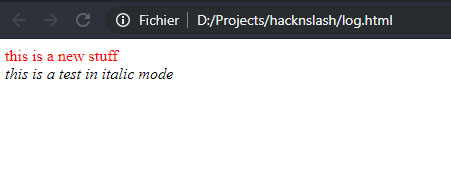
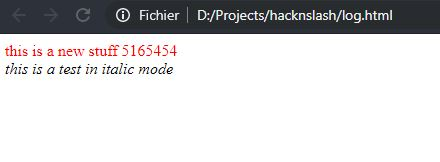
Update the documentation of the logging module with a functional example using long type

Changed region(s): [[0.0, 0.0309, 1.0, 0.2469], [0.0, 0.2778, 0.4136, 0.4938], [0.1477, 0.0309, 0.2068, 0.1543]]

diff --git a/doc/modules/logging/logging.md b/doc/modules/logging/logging.md
@@ -91,7 +91,7 @@ _You always should call this function when you opened up a file before._
 or by including the associated data_logging.c file:
 ```c
     logging.open(data_logging.file, "log.html");
-    logging.write(data_logging.file, "red", "%s %l", "this is a new stuff", 5165454);
+    logging.write(data_logging.file, "red", "%s %ld", "this is a new stuff", 5165454);
     logging.close(data_logging.file);
 ```
 
@@ -109,7 +109,7 @@ or by including the associated data_logging.c file:
         logging.flush(data_logging.file_name);
         logging.open(data_logging.file, data_logging.file_name);
         
-        logging.write(data_logging.file, "red", "%s %l", "this is a new stuff", 5165454);
+        logging.write(data_logging.file, "red", "%s %ld", "this is a new stuff", 5165454);
         const char* html_content = "<em>this is a test in italic mode</em>";
         logging.write(data_logging.file, "black", "%s", html_content);
 
